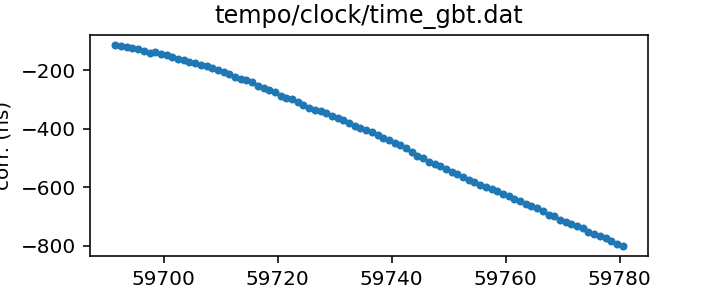
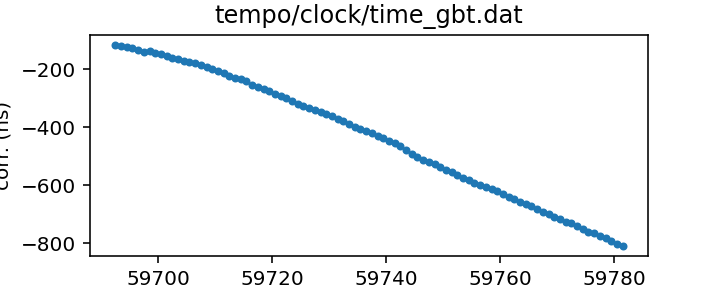
Routine gh-pages update from Github action Fri Jul 22 20:35:40 UTC 2022

diff --git a/status.md b/status.md
@@ -13,17 +13,17 @@ name of each clock file links to a page with more details.
 
 | Name | File | Corrections start | Corrections end | Last check date | Last check result 
 |:--- |:--- | --- | --- | --- |:--- 
-| [GPS to UTC](T2runtime/clock/gps2utc.clk.html) | `T2runtime/clock/gps2utc.clk` | 1993-01-01 MJD 48988.0 | 2022-06-29 MJD 59759.0 | 2022-07-21 | Unchanged 
-| [GPS to UTC (Combined Clock)](T2runtime/clock/gps2utc_cc.clk.html) | `T2runtime/clock/gps2utc_cc.clk` | 1993-01-01 MJD 48988.0 | 2022-06-29 MJD 59759.0 | 2022-07-21 | Unchanged 
-| [GPS to UTC (Corrected)](T2runtime/clock/gps2utc_c0p.clk.html) | `T2runtime/clock/gps2utc_c0p.clk` | 2010-12-29 MJD 55559.0 | 2022-06-29 MJD 59759.0 | 2022-07-21 | Unchanged 
-| [GBT](tempo/clock/time_gbt.dat.html) | `tempo/clock/time_gbt.dat` | 2000-12-31 MJD 51909.5 | 2022-07-20 MJD 59780.5 | 2022-07-21 | Updated 
-| [GBT (TEMPO2 converted from TEMPO)](T2runtime/clock/gbt2gps.clk.html) | `T2runtime/clock/gbt2gps.clk` | 2000-12-31 MJD 51909.5 | 2022-07-20 MJD 59780.5 | 2022-07-21 | Updated 
+| [GPS to UTC](T2runtime/clock/gps2utc.clk.html) | `T2runtime/clock/gps2utc.clk` | 1993-01-01 MJD 48988.0 | 2022-06-29 MJD 59759.0 | 2022-07-22 | Unchanged 
+| [GPS to UTC (Combined Clock)](T2runtime/clock/gps2utc_cc.clk.html) | `T2runtime/clock/gps2utc_cc.clk` | 1993-01-01 MJD 48988.0 | 2022-06-29 MJD 59759.0 | 2022-07-22 | Unchanged 
+| [GPS to UTC (Corrected)](T2runtime/clock/gps2utc_c0p.clk.html) | `T2runtime/clock/gps2utc_c0p.clk` | 2010-12-29 MJD 55559.0 | 2022-06-29 MJD 59759.0 | 2022-07-22 | Unchanged 
+| [GBT](tempo/clock/time_gbt.dat.html) | `tempo/clock/time_gbt.dat` | 2000-12-31 MJD 51909.5 | 2022-07-21 MJD 59781.5 | 2022-07-22 | Updated 
+| [GBT (TEMPO2 converted from TEMPO)](T2runtime/clock/gbt2gps.clk.html) | `T2runtime/clock/gbt2gps.clk` | 2000-12-31 MJD 51909.5 | 2022-07-21 MJD 59781.5 | 2022-07-22 | Updated 
 | [Jodrell Bank](T2runtime/clock/jb2gps.clk.html) | `T2runtime/clock/jb2gps.clk` | 2006-10-13 MJD 54021.4 | 2021-11-03 MJD 59521.0 | 2022-07-20 | Unchanged 
 | [Jodrell Bank Roach](T2runtime/clock/jbroach2jb.clk.html) | `T2runtime/clock/jbroach2jb.clk` | 2006-10-13 MJD 54021.4 | 2018-03-20 MJD 58197.6 | 2022-07-20 | Unchanged 
 | [Jodrell Bank DFB](T2runtime/clock/jbdfb2jb.clk.html) | `T2runtime/clock/jbdfb2jb.clk` | 2006-10-13 MJD 54021.4 | 2017-05-11 MJD 57884.0 | 2022-07-20 | Unchanged 
 | [Meerkat (observatory)](T2runtime/clock/mk2utc_observatory.clk.html) | `T2runtime/clock/mk2utc_observatory.clk` | 2019-01-01 MJD 58484.0 | 2022-06-29 MJD 59760.0 | 2022-07-18 | Unchanged 
-| [Leap seconds](tempo/clock/leap.sec.html) | `tempo/clock/leap.sec` | 1972-07-01 MJD 41499.0 | 2017-01-01 MJD 57754.0 | 2022-07-21 | Unchanged 
-| [UT1 table](tempo/clock/ut1.dat.html) | `tempo/clock/ut1.dat` | 1973-01-02 MJD 41684.0 | 2023-07-29 MJD 60154.0 | 2022-07-21 | Updated 
+| [Leap seconds](tempo/clock/leap.sec.html) | `tempo/clock/leap.sec` | 1972-07-01 MJD 41499.0 | 2017-01-01 MJD 57754.0 | 2022-07-22 | Unchanged 
+| [UT1 table](tempo/clock/ut1.dat.html) | `tempo/clock/ut1.dat` | 1973-01-02 MJD 41684.0 | 2023-07-29 MJD 60154.0 | 2022-07-22 | Unchanged 
 
 
 

diff --git a/T2runtime/clock/gbt2gps.clk.md b/T2runtime/clock/gbt2gps.clk.md
@@ -23,14 +23,13 @@ If questions arise about the conversion, contact Anne Archibald
 | Format | tempo2 |
 | Bogus last correction | False |
 | Clock file start | 2000-12-31 MJD 51909.5 |
-| Clock file end | 2022-07-20 MJD 59780.5 |
+| Clock file end | 2022-07-21 MJD 59781.5 |
 | Update interval (days) | 1 |
-| Last update attempt | 2022-07-21 |
+| Last update attempt | 2022-07-22 |
 | Last update result | Updated |
 
 Log entries from the last few update attempts:
 ```
-2022-07-12 20:36:39.800 - Updated
 2022-07-13 20:34:14.172 - Updated
 2022-07-14 20:34:53.973 - Updated
 2022-07-15 20:34:27.499 - Updated
@@ -40,12 +39,13 @@ Log entries from the last few update attempts:
 2022-07-19 20:35:02.997 - Updated
 2022-07-20 20:36:46.645 - Updated
 2022-07-21 20:36:15.090 - Updated
+2022-07-22 20:35:18.641 - Updated
 ```
 [Full log](https://raw.githubusercontent.com/ipta/pulsar-clock-corrections/main/log/T2runtime/clock/gbt2gps.clk.log)
 
 Leading comments from clock file:
 
-    # This file was automatically converted from tempo/clock/time_gbt.dat on 2022-07-21 20:36:15.000
+    # This file was automatically converted from tempo/clock/time_gbt.dat on 2022-07-22 20:35:18.572
 
 
 

diff --git a/tempo/clock/time_gbt.dat.md b/tempo/clock/time_gbt.dat.md
@@ -18,14 +18,13 @@ If questions arise, contact Ryan S. Lynch <rlynch@nrao.edu>.
 | Format | tempo |
 | Bogus last correction | False |
 | Clock file start | 2000-12-31 MJD 51909.5 |
-| Clock file end | 2022-07-20 MJD 59780.5 |
+| Clock file end | 2022-07-21 MJD 59781.5 |
 | Update interval (days) | 1 |
-| Last update attempt | 2022-07-21 |
+| Last update attempt | 2022-07-22 |
 | Last update result | Updated |
 
 Log entries from the last few update attempts:
 ```
-2022-07-12 20:36:39.726 - Updated
 2022-07-13 20:34:14.104 - Updated
 2022-07-14 20:34:53.886 - Updated
 2022-07-15 20:34:27.404 - Updated
@@ -35,6 +34,7 @@ Log entries from the last few update attempts:
 2022-07-19 20:35:02.924 - Updated
 2022-07-20 20:36:46.575 - Updated
 2022-07-21 20:36:14.996 - Updated
+2022-07-22 20:35:18.570 - Updated
 ```
 [Full log](https://raw.githubusercontent.com/ipta/pulsar-clock-corrections/main/log/tempo/clock/time_gbt.dat.log)
 

diff --git a/T2runtime/clock/gps2utc_c0p.clk.md b/T2runtime/clock/gps2utc_c0p.clk.md
@@ -30,12 +30,11 @@ about the BIPM's published corrections, contact <tai@bipm.org>.
 | Clock file start | 2010-12-29 MJD 55559.0 |
 | Clock file end | 2022-06-29 MJD 59759.0 |
 | Update interval (days) | 1 |
-| Last update attempt | 2022-07-21 |
+| Last update attempt | 2022-07-22 |
 | Last update result | Unchanged |
 
 Log entries from the last few update attempts:
 ```
-2022-07-12 20:36:39.402 - Unchanged
 2022-07-13 20:34:13.752 - Unchanged
 2022-07-14 20:34:53.139 - Unchanged
 2022-07-15 20:34:26.295 - Unchanged
@@ -45,6 +44,7 @@ Log entries from the last few update attempts:
 2022-07-19 20:35:00.998 - Unchanged
 2022-07-20 20:36:46.160 - Unchanged
 2022-07-21 20:36:14.199 - Unchanged
+2022-07-22 20:35:18.216 - Unchanged
 ```
 [Full log](https://raw.githubusercontent.com/ipta/pulsar-clock-corrections/main/log/T2runtime/clock/gps2utc_c0p.clk.log)
 

diff --git a/T2runtime/clock/gps2utc_cc.clk.md b/T2runtime/clock/gps2utc_cc.clk.md
@@ -29,12 +29,11 @@ about the BIPM's published corrections, contact <tai@bipm.org>.
 | Clock file start | 1993-01-01 MJD 48988.0 |
 | Clock file end | 2022-06-29 MJD 59759.0 |
 | Update interval (days) | 1 |
-| Last update attempt | 2022-07-21 |
+| Last update attempt | 2022-07-22 |
 | Last update result | Unchanged |
 
 Log entries from the last few update attempts:
 ```
-2022-07-12 20:36:39.391 - Unchanged
 2022-07-13 20:34:13.741 - Unchanged
 2022-07-14 20:34:53.122 - Unchanged
 2022-07-15 20:34:26.281 - Unchanged
@@ -44,6 +43,7 @@ Log entries from the last few update attempts:
 2022-07-19 20:35:00.987 - Unchanged
 2022-07-20 20:36:46.150 - Unchanged
 2022-07-21 20:36:14.182 - Unchanged
+2022-07-22 20:35:18.205 - Unchanged
 ```
 [Full log](https://raw.githubusercontent.com/ipta/pulsar-clock-corrections/main/log/T2runtime/clock/gps2utc_cc.clk.log)
 

diff --git a/T2runtime/clock/gps2utc.clk.md b/T2runtime/clock/gps2utc.clk.md
@@ -32,12 +32,11 @@ about the BIPM's published corrections, contact <tai@bipm.org>.
 | Clock file start | 1993-01-01 MJD 48988.0 |
 | Clock file end | 2022-06-29 MJD 59759.0 |
 | Update interval (days) | 1 |
-| Last update attempt | 2022-07-21 |
+| Last update attempt | 2022-07-22 |
 | Last update result | Unchanged |
 
 Log entries from the last few update attempts:
 ```
-2022-07-12 20:36:39.359 - Unchanged
 2022-07-13 20:34:13.709 - Unchanged
 2022-07-14 20:34:53.077 - Unchanged
 2022-07-15 20:34:26.237 - Unchanged
@@ -47,6 +46,7 @@ Log entries from the last few update attempts:
 2022-07-19 20:35:00.953 - Unchanged
 2022-07-20 20:36:46.118 - Unchanged
 2022-07-21 20:36:14.123 - Unchanged
+2022-07-22 20:35:18.172 - Unchanged
 ```
 [Full log](https://raw.githubusercontent.com/ipta/pulsar-clock-corrections/main/log/T2runtime/clock/gps2utc.clk.log)
 

diff --git a/tempo/clock/ut1.dat.md b/tempo/clock/ut1.dat.md
@@ -30,12 +30,11 @@ If there are any questions, contact Anne Archibald
 | File start | 1973-01-02 MJD 41684.0 |
 | File end | 2023-07-29 MJD 60154.0 |
 | Update interval (days) | 0 |
-| Last update attempt | 2022-07-21 |
-| Last update result | Updated |
+| Last update attempt | 2022-07-22 |
+| Last update result | Unchanged |
 
 Log entries from the last few update attempts:
 ```
-2022-07-12 20:36:47.105 - Unchanged
 2022-07-13 20:34:25.065 - Unchanged
 2022-07-14 20:35:07.829 - Updated
 2022-07-15 20:34:39.983 - Unchanged
@@ -45,5 +44,6 @@ Log entries from the last few update attempts:
 2022-07-19 20:35:13.994 - Unchanged
 2022-07-20 20:36:58.086 - Unchanged
 2022-07-21 20:36:28.559 - Updated
+2022-07-22 20:35:26.343 - Unchanged
 ```
 [Full log](https://raw.githubusercontent.com/ipta/pulsar-clock-corrections/main/log/tempo/clock/ut1.dat.log)

diff --git a/tempo/clock/leap.sec.md b/tempo/clock/leap.sec.md
@@ -21,12 +21,11 @@ If there are any questions, contact Anne Archibald
 | File start | 1972-07-01 MJD 41499.0 |
 | File end | 2017-01-01 MJD 57754.0 |
 | Update interval (days) | 0 |
-| Last update attempt | 2022-07-21 |
+| Last update attempt | 2022-07-22 |
 | Last update result | Unchanged |
 
 Log entries from the last few update attempts:
 ```
-2022-07-12 20:36:39.843 - Unchanged
 2022-07-13 20:34:17.051 - Unchanged
 2022-07-14 20:34:57.141 - Unchanged
 2022-07-15 20:34:27.548 - Unchanged
@@ -36,5 +35,6 @@ Log entries from the last few update attempts:
 2022-07-19 20:35:03.028 - Unchanged
 2022-07-20 20:36:50.027 - Unchanged
 2022-07-21 20:36:18.757 - Unchanged
+2022-07-22 20:35:18.676 - Unchanged
 ```
 [Full log](https://raw.githubusercontent.com/ipta/pulsar-clock-corrections/main/log/tempo/clock/leap.sec.log)
